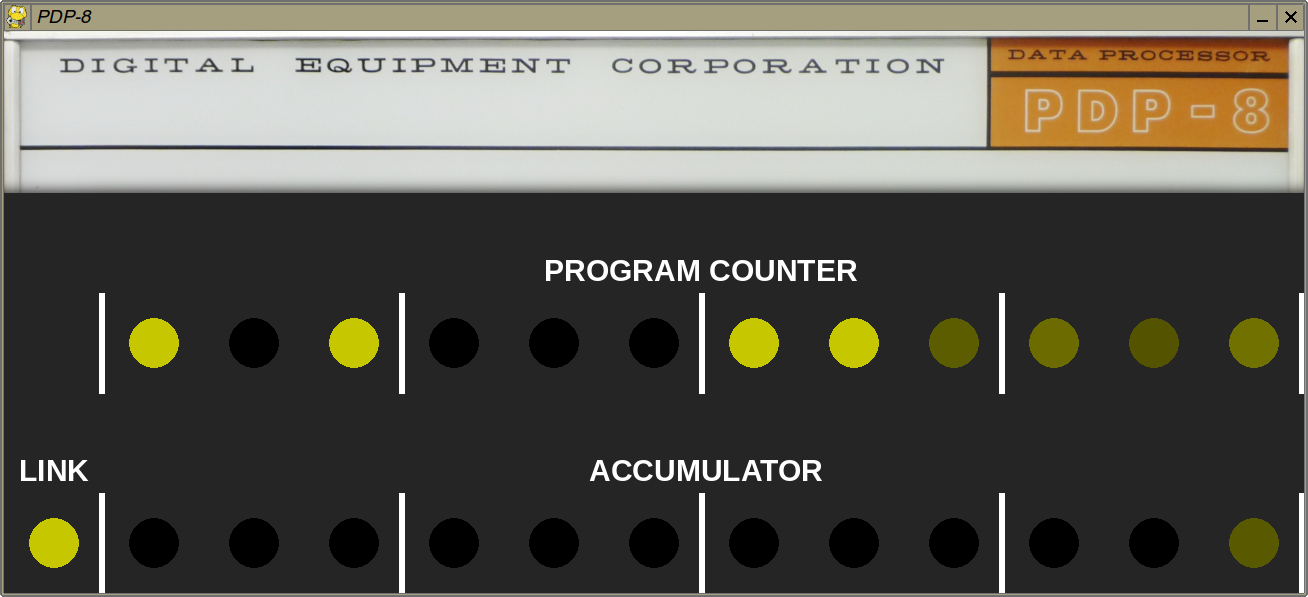
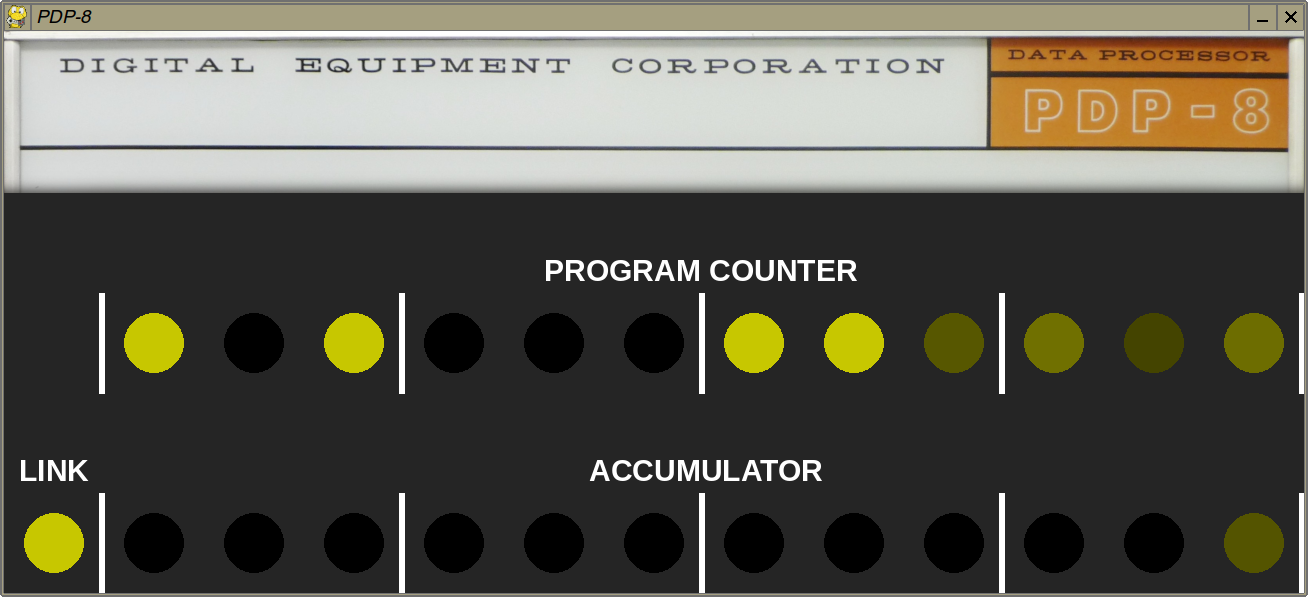
larger lamps

diff --git a/pdp8.py b/pdp8.py
@@ -23,7 +23,7 @@ else:
     from select import select
 
 pygame.init()
-XSIZE, YSIZE, LEDR = 1300, 562, 25
+XSIZE, YSIZE, LEDR = 1300, 562, 30
 YROW1, YROW2 = YSIZE - 250, YSIZE - 50
 screen = pygame.display.set_mode((XSIZE, YSIZE))
 pygame.display.set_caption('PDP-8')
